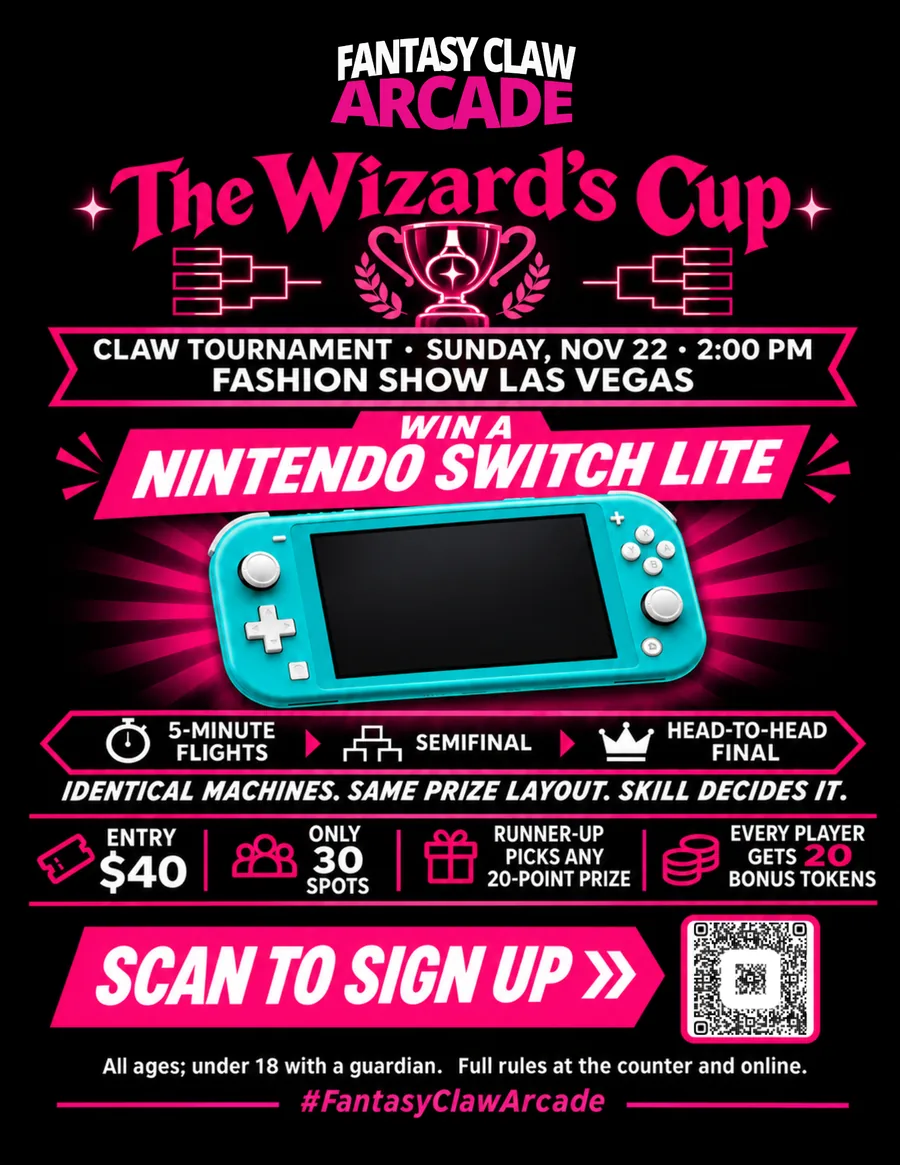
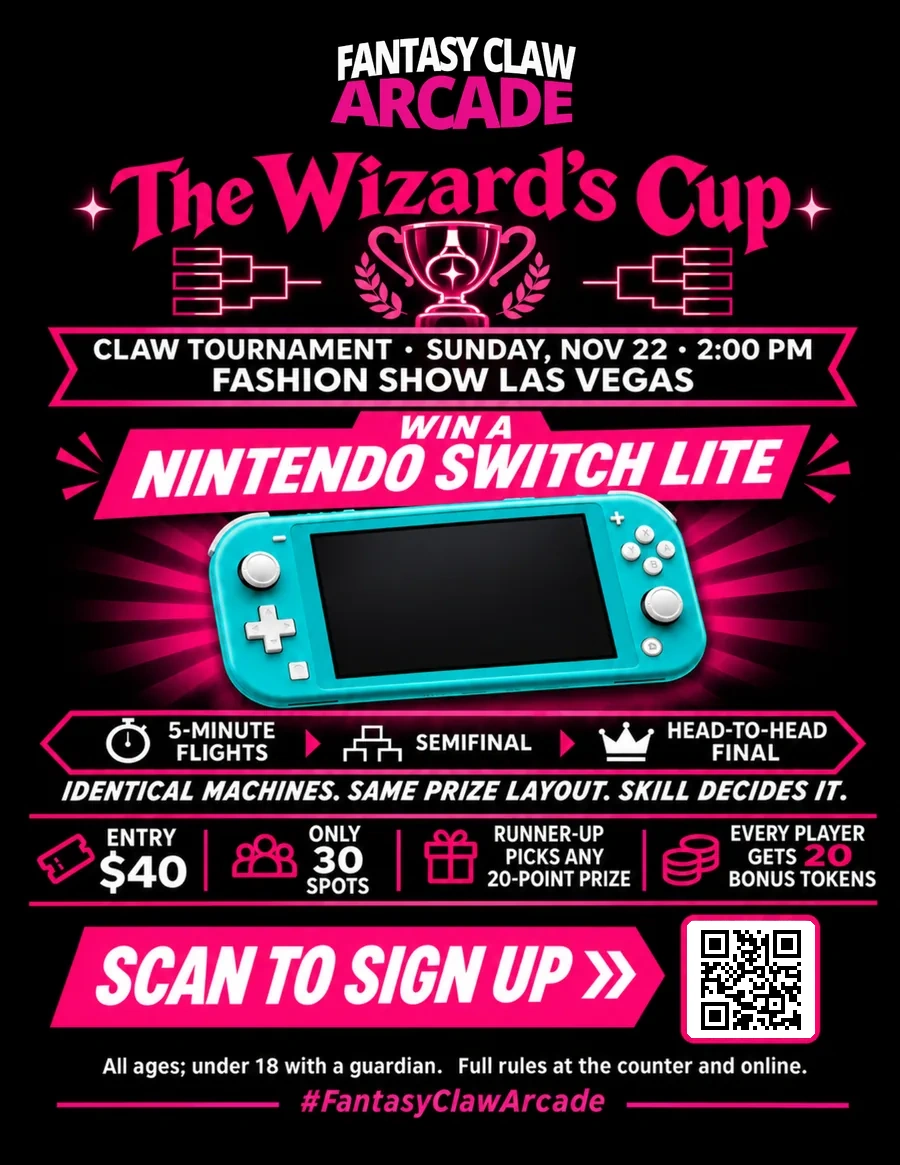
Wizard's Cup poster: replace unscannable QR with a real Square sign-up QR; poster on the blog post links to sign-up
Claude-Session: https://claude.ai/code/session_01Tt73fKx9TpfK2hJRWRgKJ1

Changed region(s): [[0.7467, 0.7725, 0.9333, 0.8961]]

diff --git a/site/post/wizards-cup-las-vegas-claw-machine-tournament.html b/site/post/wizards-cup-las-vegas-claw-machine-tournament.html
@@ -48,7 +48,7 @@
       <p class="eyebrow"><a href="/blog">Blog</a></p>
       <h1>The Wizard’s Cup: Las Vegas Claw Machine Tournament at Fashion Show</h1>
       <p class="byline">Elliot Cole · Nov 11, 2026 · 4 min read</p>
-      <figure class="post-hero post-hero-poster"><img src="/assets/photos/fantasy-claw-arcade-wizards-cup-tournament-nov-2026.webp" alt="The Wizard’s Cup claw tournament poster: Sunday, Nov. 22 at 2:00 PM at Fashion Show Las Vegas. Win a Nintendo Switch Lite. $40 entry, only 30 spots." width="900" height="1165" fetchpriority="high"></figure>
+      <figure class="post-hero post-hero-poster"><a href="https://square.link/u/pT2yNBbV" target="_blank" rel="noopener" aria-label="Sign up for The Wizard’s Cup on Square"><img src="/assets/photos/fantasy-claw-arcade-wizards-cup-tournament-nov-2026.webp" alt="The Wizard’s Cup claw tournament poster: Sunday, Nov. 22 at 2:00 PM at Fashion Show Las Vegas. Win a Nintendo Switch Lite. $40 entry, only 30 spots." width="900" height="1165" fetchpriority="high"></a></figure>
       <div class="prose">
         <p>You know the moment. The claw lines up, the grip closes, and for a second everything rides on whether the prize makes it to the chute. On Sunday, November 22, that moment gets a scoreboard.</p>
         <p>The Wizard’s Cup is Fantasy Claw Arcade’s first-ever claw machine tournament, hosted at our <a href="/lasvegas-fashionshow">Fashion Show Las Vegas</a> location. Thirty players. Six identical machines. One champion takes home a Nintendo Switch Lite.</p>
